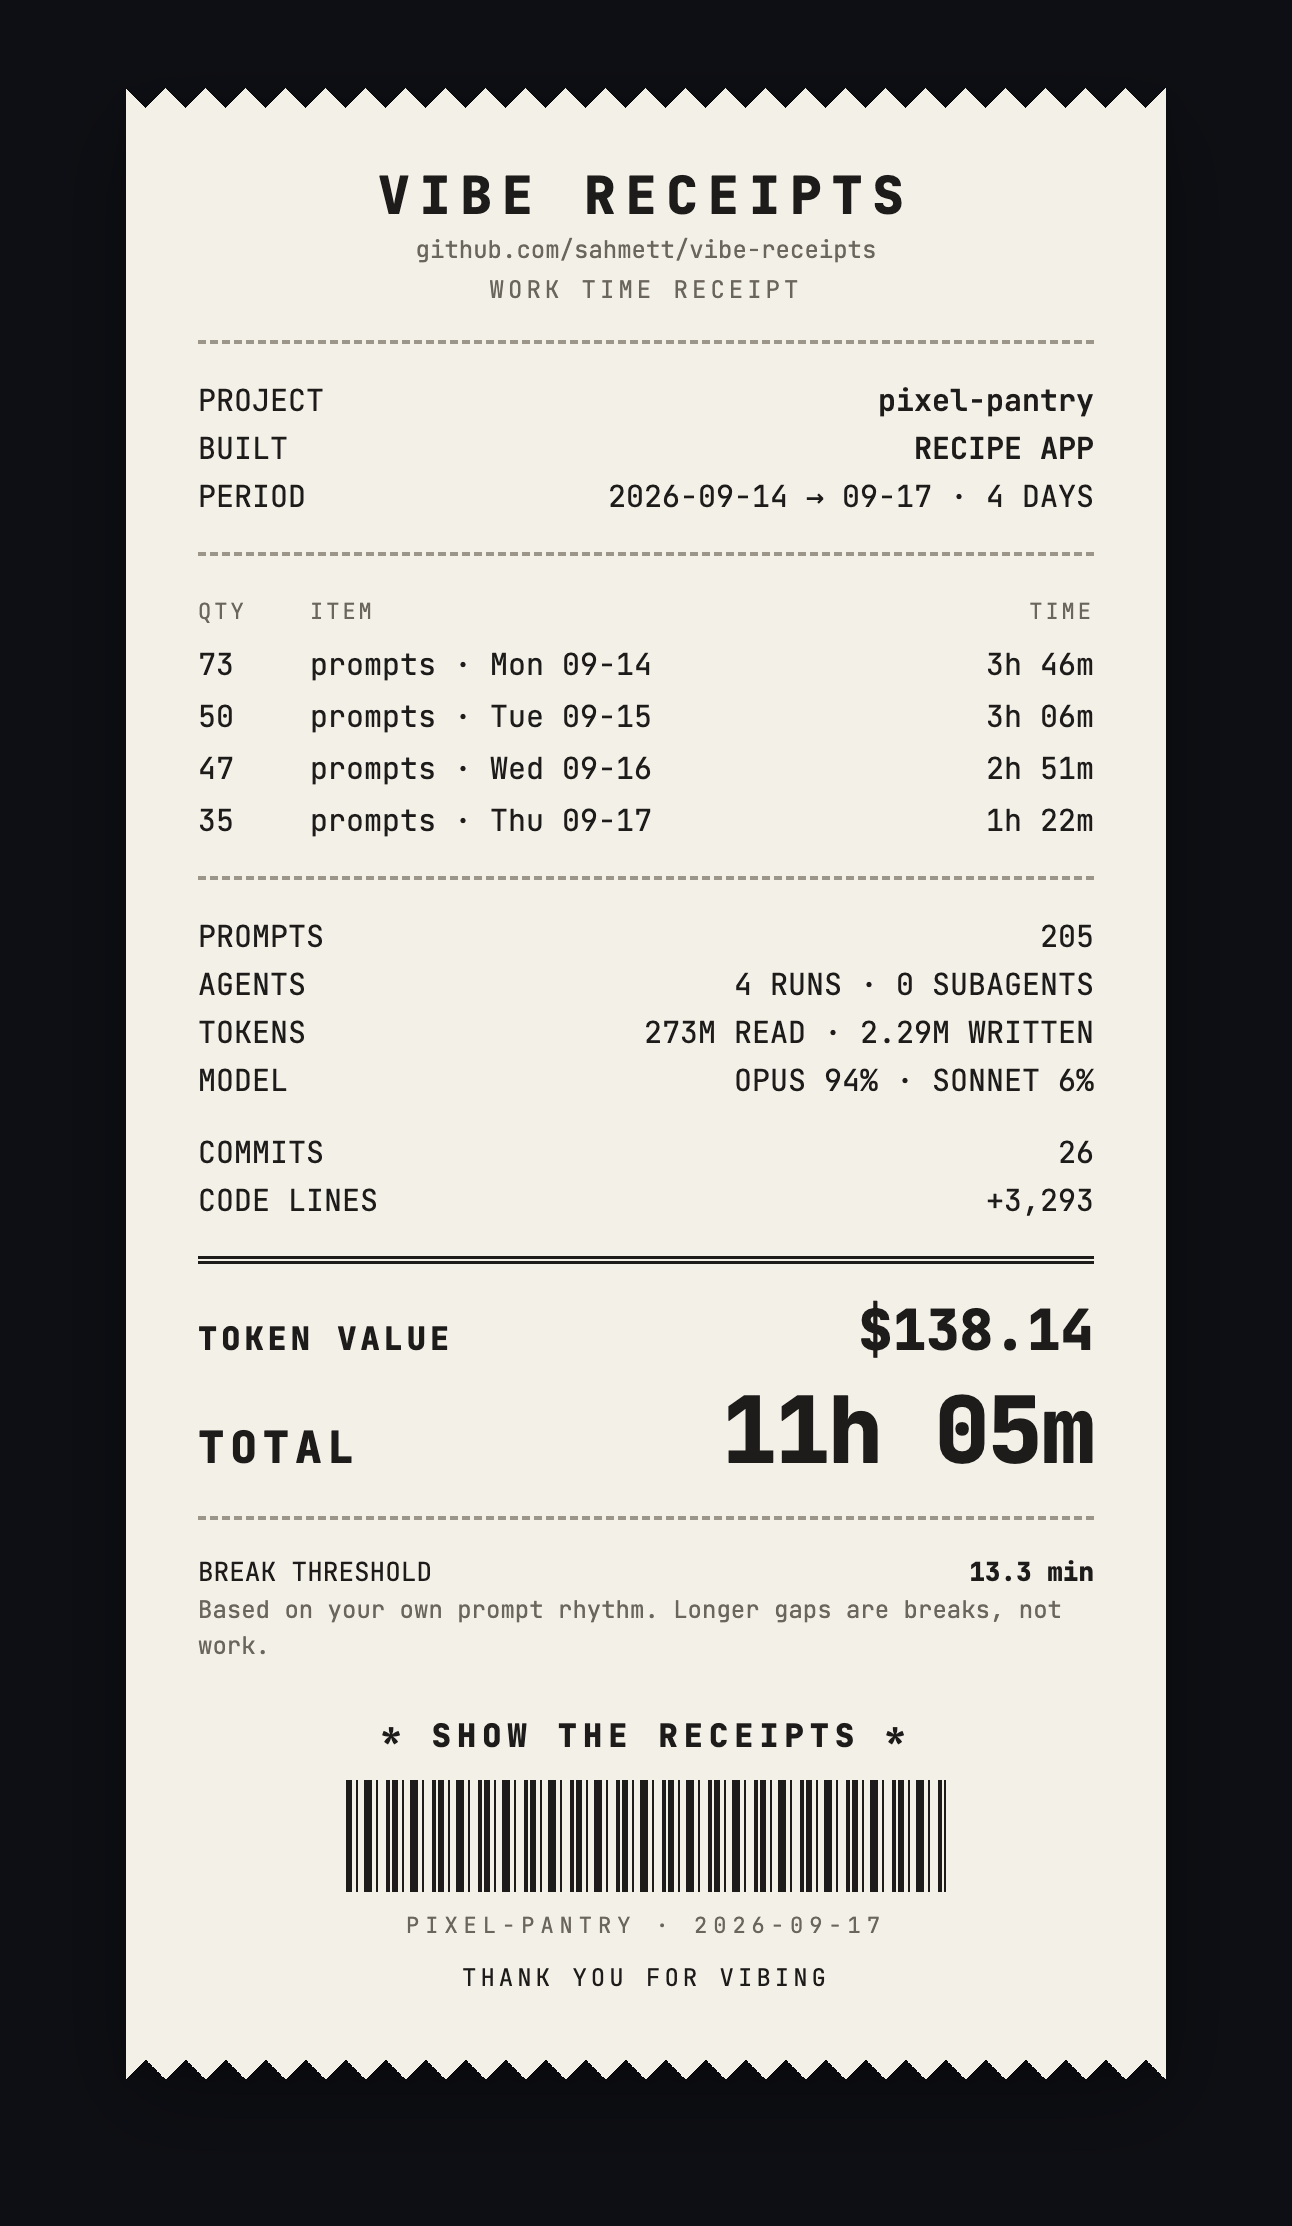
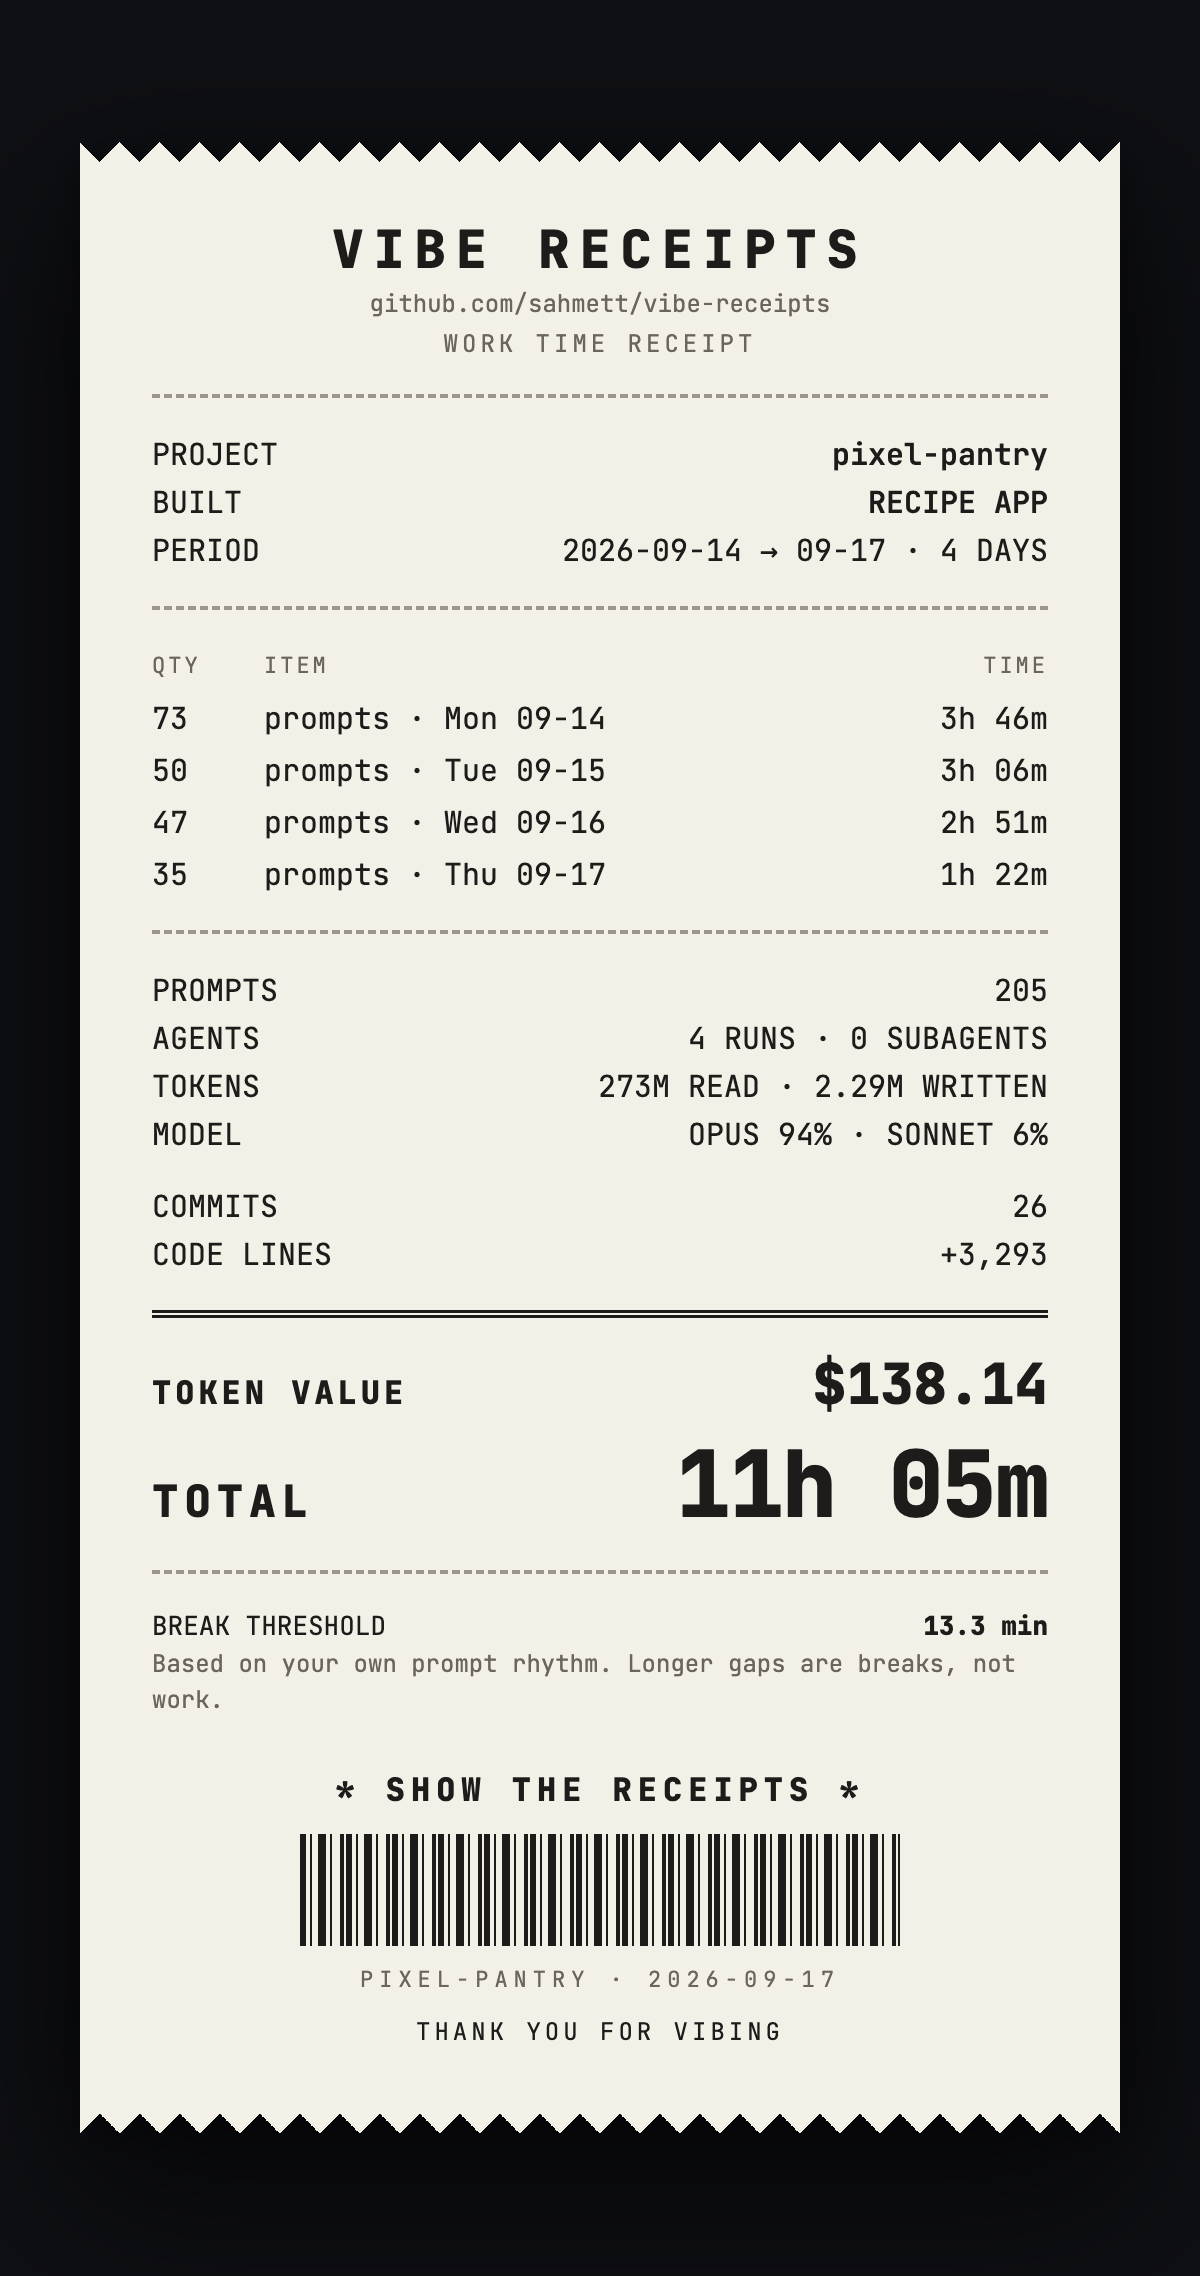
feat: the share card is just the receipt, straight
- No brand bar, quote or byline; the receipt is no longer tilted and sits
  centred on a 600px dark card sized to its rows
- The quote lives on in the Share: caption
- Only one web font is loaded now
- docs/receipt.png is the demo's real output

diff --git a/skills/vibe-receipts/scripts/receipts.py b/skills/vibe-receipts/scripts/receipts.py
@@ -101,7 +101,7 @@ L={
    rc_unit_p='prompts',rc_unit_c='commits',rc_wk='wk of',rc_dow=['Mon','Tue','Wed','Thu','Fri','Sat','Sun'],
    # the joke: what you said before you started; picked so the receipt's TOTAL is always more
    share='{q} {t} later{v}. 🧾 github.com/sahmett/vibe-receipts #vibereceipts',share_v=', {v} of tokens',share_t=lambda h,m:f'{h}h {m}m',
-   rc_quote=[(0.5,'\u201cTwo-minute change.\u201d'),(3,'\u201cJust a quick fix.\u201d'),(None,"\u201cIt's a 2-hour project.\u201d")],rc_by='\u2014 me, {day} morning'),
+   rc_quote=[(0.5,'\u201cTwo-minute change.\u201d'),(3,'\u201cJust a quick fix.\u201d'),(None,"\u201cIt's a 2-hour project.\u201d")]),
  'tr':dict(
    h='s',m='d',dow=['Pazartesi','Salı','Çarşamba','Perşembe','Cuma','Cumartesi','Pazar'],
    title='Çalışma Süresi Fişi',commits='commit',prompts='prompt',
@@ -140,7 +140,7 @@ L={
    rc_est='OTURUM KAYDI YOK',rc_est_note="Commit'ler arası süreden kaba tahmin.",
    rc_unit_p='prompt',rc_unit_c='commit',rc_wk='hafta',rc_dow=['Pzt','Sal','Çar','Per','Cum','Cmt','Paz'],
    share='{q} {t} sonra{v}. 🧾 github.com/sahmett/vibe-receipts #vibereceipts',share_v=', {v} değerinde token',share_t=lambda h,m:f'{h} saat {m} dakika',
-   rc_quote=[(0.5,'\u201cİki dakikalık iş.\u201d'),(3,'\u201cUfak bir düzeltme.\u201d'),(None,'\u201c2 saatlik iş.\u201d')],rc_by='\u2014 ben, {day} sabahı'),
+   rc_quote=[(0.5,'\u201cİki dakikalık iş.\u201d'),(3,'\u201cUfak bir düzeltme.\u201d'),(None,'\u201c2 saatlik iş.\u201d')]),
 }
 
 def default_lang():
@@ -522,12 +522,12 @@ def main():
     period=(d0 if d0==d1 else f"{d0} → {d1[5:] if d0[:4]==d1[:4] else d1}")+f" · {T['rc_days'](span)}"
     quote=next(q for lim,q in T['rc_quote'] if lim is None or hours<lim)
     value=(T['rc_value'],vtxt) if val['total'] else None
-    card,H=receipt_html(T,a.lang,name,a.built,period,span,active_days,d1,items,stats,hm(total),value,thr,quote,T['rc_by'].format(day=dow(d0)))
+    card,H=receipt_html(T,a.lang,name,a.built,period,span,active_days,d1,items,stats,hm(total),value,thr)
     cardp=os.path.join(a.out,f'{name}-receipt.html')
     open(cardp,'w',encoding='utf-8').write(card)
     pngp=os.path.join(a.out,f'{name}-receipt.png')
     if a.no_png: pass
-    elif render_png(cardp,pngp,1080,H): print("PNG :",pngp)
+    elif render_png(cardp,pngp,CARD_W,H): print("PNG :",pngp)
     else: print(f"PNG : skipped, no Chrome/Chromium found (set CHROME=/path/to/chrome). Card HTML: {cardp}")
     m=int(round(total/60))   # ready-to-post text to go with the PNG
     print("Share:",T['share'].format(q=quote,t=T['share_t'](m//60,m%60),v=T['share_v'].format(v=vtxt) if val['total'] else ''))
@@ -538,18 +538,16 @@ def split_minutes(secs,total):
     for i in sorted(range(len(raw)),key=lambda i:fl[i]-raw[i])[:int(round(total/60))-sum(fl)]: fl[i]+=1
     return fl
 
-def receipt_html(T,lang,name,built,period,span,active_days,d1,items,stats,total,value,thr,quote,by):
-    """The share card: a thermal-paper receipt on a dark 1080px-wide card. Returns (html, height)."""
+def receipt_html(T,lang,name,built,period,span,active_days,d1,items,stats,total,value,thr):
+    """The share card: a thermal-paper receipt, straight, on a dark card. Returns (html, height)."""
     e=html.escape
     def up(x): return (x.replace('i','İ').replace('ı','I') if lang=='tr' else x).upper()   # Turkish dotted İ
     rows=''.join(f'<span>{q:,}</span><span>{e(l)}</span><span class="r">{t}</span>' for q,l,t in items)
     srows=''.join('<div class="sp"></div>' if r is None else f'<div class="row"><span>{e(r[0])}</span><span>{r[1]}</span></div>' for r in stats)
-    H=max(1350,378+804+24*(len(stats)-4)+26*len(items)+24*bool(built)+46*bool(value)+60)   # card padding + quote + receipt body + item/BUILT/value rows + slack
+    H=2*CARD_PAD+804+24*(len(stats)-4)+26*len(items)+24*bool(built)+46*bool(value)+8   # card padding + receipt body + item/BUILT/value rows + slack
     return (f'<!doctype html><html lang="{lang}"><head><meta charset="utf-8"><title>{e(name)} · vibe receipt</title>'
-      '<link rel="stylesheet" href="https://fonts.googleapis.com/css2?family=JetBrains+Mono:wght@400;600;800&family=Instrument+Serif:ital@0;1&display=swap">'
+      '<link rel="stylesheet" href="https://fonts.googleapis.com/css2?family=JetBrains+Mono:wght@400;600;800&display=swap">'
       f'<style>{RCSS}</style></head><body><div class="card" style="height:{H}px">'
-      '<div class="brand"><b>VIBE RECEIPTS</b><span>github.com/sahmett/vibe-receipts</span></div>'
-      f'<div class="stage"><div class="quote">{e(quote)}</div><div class="by">{e(by)}</div>'
       '<div class="rc"><div class="tear t"></div><div class="paper">'
       f'<div class="hd"><div class="t">VIBE RECEIPTS</div><div class="mute">github.com/sahmett/vibe-receipts</div><div class="mute ls">{T["rc_kind"]}</div></div>'
       '<div class="hr"></div>'
@@ -567,7 +565,7 @@ def receipt_html(T,lang,name,built,period,span,active_days,d1,items,stats,total,
       f'<div class="row thr"><span>{thr[0]}</span><b>{e(thr[1])}</b></div>'+(f'<div class="mute">{e(thr[2])}</div>' if thr[2] else '')+
       '<div class="ft"><div class="s">* SHOW THE RECEIPTS *</div><div class="bc"></div>'
       f'<div class="mute bn">{e(up(name))} · {d1}</div><div class="ty">THANK YOU FOR VIBING</div></div>'
-      '</div><div class="tear b"></div></div></div></div></body></html>'),H
+      '</div><div class="tear b"></div></div></div></body></html>'),H
 
 def find_chrome():
     if os.environ.get('CHROME'): return os.environ['CHROME']
@@ -621,15 +619,11 @@ tr.sel td{color:#fff;font-weight:700;background:#1c2030}
 @media (max-width:600px){.scn .nm{width:150px}.kpis{grid-template-columns:1fr 1fr}.kpi.hero{grid-row:auto;grid-column:span 2}}"""
 
 PAPER,INK='#F3F0E8','#1d1c1a'
+CARD_W,CARD_PAD=600,40   # the share card: just the receipt, straight, on a dark background
 RCSS=f"""*{{box-sizing:border-box;margin:0;padding:0}}
 body{{background:#0e0f14;color:#ECEAF2;font-family:'JetBrains Mono',ui-monospace,Menlo,Consolas,monospace;font-variant-numeric:tabular-nums}}
-.card{{width:1080px;padding:64px 72px;display:flex;flex-direction:column;align-items:center;overflow:hidden}}
-.brand{{width:100%;display:flex;justify-content:space-between;font-size:15px;line-height:22px}}
-.brand b{{color:#a78bfa;font-weight:800;letter-spacing:3px}}.brand span{{color:#9A98A6}}
-.stage{{flex:1;display:flex;flex-direction:column;align-items:center;justify-content:center}}
-.quote{{margin-top:52px;font-family:'Instrument Serif',Georgia,serif;font-style:italic;font-size:84px;line-height:88px;letter-spacing:-1px;text-align:center}}
-.by{{margin-top:10px;font-size:16px;line-height:22px;color:#9A98A6}}
-.rc{{margin-top:56px;width:520px;transform:rotate(-2deg);filter:drop-shadow(0 30px 40px rgba(0,0,0,.55)) drop-shadow(0 4px 8px rgba(0,0,0,.4));color:{INK}}}
+.card{{width:{CARD_W}px;padding:{CARD_PAD}px;display:flex;flex-direction:column;align-items:center;justify-content:center;overflow:hidden}}
+.rc{{width:520px;filter:drop-shadow(0 30px 40px rgba(0,0,0,.55)) drop-shadow(0 4px 8px rgba(0,0,0,.4));color:{INK}}}
 .tear{{height:10px;background-size:20px 20px;background-repeat:repeat-x}}
 .tear.t{{background-image:linear-gradient(45deg,{PAPER} 50%,transparent 50%),linear-gradient(-45deg,{PAPER} 50%,transparent 50%);background-position:0 0}}
 .tear.b{{background-image:linear-gradient(135deg,{PAPER} 50%,transparent 50%),linear-gradient(-135deg,{PAPER} 50%,transparent 50%);background-position:0 100%}}

diff --git a/README.md b/README.md
@@ -134,7 +134,7 @@ which models wrote them, a daily table and a daily commit log.
 
 Everything runs locally. vibe-receipts reads your Claude Code transcripts and git history on your
 machine and writes its outputs to `~/vibe-receipts/`. It never uploads your prompts, code, logs or
-reports. The only network request is the receipt card loading its two fonts from Google Fonts while
+reports. The only network request is the receipt card loading its font from Google Fonts while
 it is rendered.
 
 ## Options
